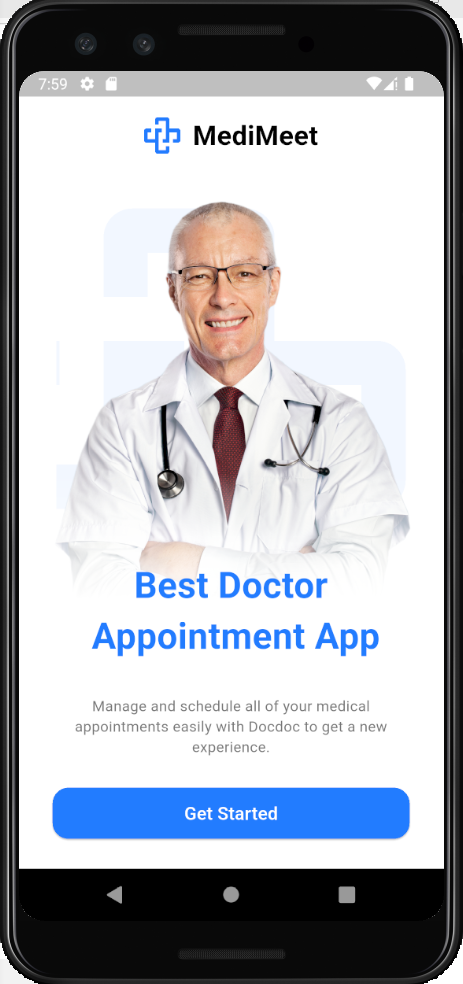
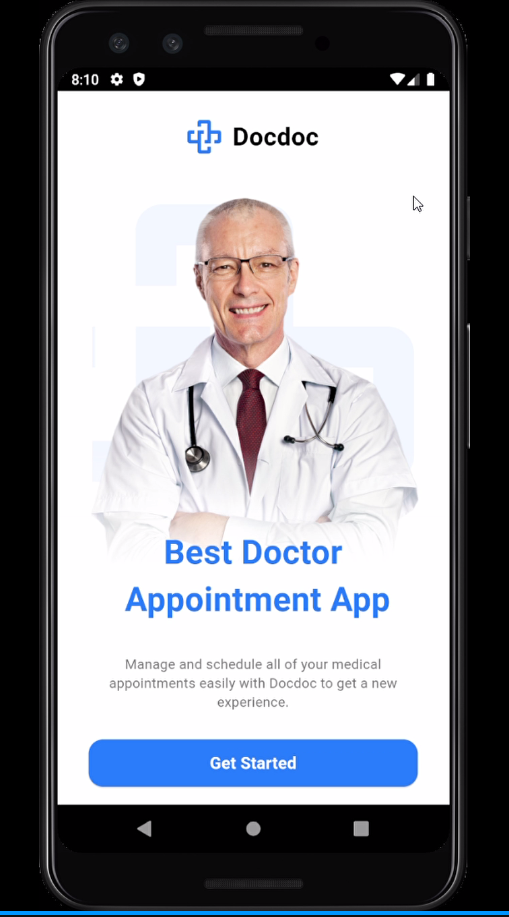
Edit onboard

diff --git a/lib/Features/onboarding/onboarding_screen.dart b/lib/Features/onboarding/onboarding_screen.dart
@@ -11,9 +11,9 @@ class OnboardingScreen extends StatelessWidget {
 
   @override
   Widget build(BuildContext context) {
-    return Scaffold(
-      body: SafeArea(
-        child: SingleChildScrollView(
+    return SafeArea(
+      child: Scaffold(
+        body: SingleChildScrollView(
           child: Padding(
             padding: EdgeInsets.only(top: 30.h, bottom: 30.h),
             child: Column(
@@ -26,7 +26,7 @@ class OnboardingScreen extends StatelessWidget {
                   child: Column(
                     spacing: 30.h,
                     crossAxisAlignment: CrossAxisAlignment.center,
-
+              
                     children: [
                       Text(
                         'Manage and schedule all of your medical appointments easily with Docdoc to get a new experience.',

diff --git a/lib/Features/onboarding/widgets/doc_logo_and_name.dart b/lib/Features/onboarding/widgets/doc_logo_and_name.dart
@@ -14,7 +14,7 @@ class DocLogoAndName extends StatelessWidget {
       mainAxisAlignment: MainAxisAlignment.center,
       children: [
         SvgPicture.asset('assets/svgs/logo.svg', height: 38.h, width: 38.w),
-        Text('MediMeet', style: TextStyles.font24Black700Weight),
+        Text('Docdoc', style: TextStyles.font24Black700Weight),
       ],
     );
   }
